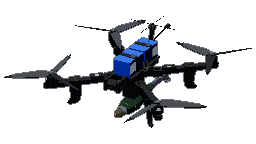
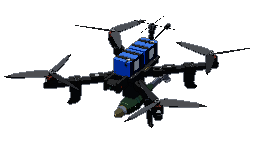
Queen Hornet: detalle del Strike en motores, baterías, cámara y tornillería
Claude-Session: https://claude.ai/code/session_01QxVwzftchd8Mx2CWkj2qo5

diff --git a/src/data/uas/queen-hornet.ts b/src/data/uas/queen-hornet.ts
@@ -58,30 +58,47 @@ const zt = (t: number) => Z_NARIZ - t / 10;
 const perfilT = (q: [number, number][]): [number, number][] => q.map(([t, r]) => [zt(t), r / 10]);
 const OJIVA_Y = Y_SUELTA_ABAJO - 0.25 - OJIVA_R;
 
-// Motor 4320: base, el bobinado naranja asomando bajo la campana negra, la
-// tapa con su eje, cubo de la hélice y tuerca.
+// Motor 4320, como los del Strike pero negro (foto de lado): asiento sobre
+// el brazo con sus cuatro tornillos por debajo, campana negra lisa abajo
+// (donde va el rótulo) y con seis ventanas grandes arriba del costado y ocho
+// radios en la tapa, las dos dejando ver el bobinado naranja; eje largo,
+// cubo de la hélice, arandela y tuerca autoblocante.
 const Y_MOTOR = BRAZO_ALTO / 2;
 const motor = (b: [number, number]): Pieza[] => {
   const id = `motor-${nombreBrazo(b)}`;
   const c = (y: number): P3 => enBrazo(b, 1, Y_MOTOR + y);
+  const radial = (r: number, f: number, y: number): P3 => { const p = c(y), a = (f * Math.PI) / 180; return [p[0] + r * Math.sin(a), p[1], p[2] + r * Math.cos(a)]; };
   return [
-    { tipo: "disco", id: `${id}-base`, acabado: "anodizado-qh", en: c(0.3), normal: [0, 1, 0], radio: 2.6, grosor: 0.6 },
-    { tipo: "varilla", id: `${id}-cobre`, acabado: "cobre-wh", desde: c(0.6), hasta: c(1.5), radio: 2.35, lados: 32 },
-    // Seis pilares de la campana entre las ventanas del bobinado.
-    ...Array.from({ length: 6 }, (_, k): Pieza => {
-      const f = k * 60, r = (f * Math.PI) / 180, p = c(1.05);
-      const centro: P3 = [p[0] + 2.4 * Math.sin(r), p[1], p[2] + 2.4 * Math.cos(r)];
-      return { tipo: "caja", id: `${id}-pilar-${k}`, acabado: "anodizado-qh", centro, tam: [0.7, 0.9, 0.3], girar: { centro, eje: "y", grados: f } };
+    { tipo: "disco", id: `${id}-asiento`, acabado: "anodizado-qh", en: c(0.25), normal: [0, 1, 0], radio: 2.7, grosor: 0.5 },
+    ...[45, 135, 225, 315].map((f, k): Pieza => {
+      const p = radial(1.6, f, 0);
+      return { tipo: "disco", id: `${id}-tornillo-${k}`, acabado: "aluminio", en: [p[0], -BRAZO_ALTO / 2 - 0.03, p[2]], normal: [0, -1, 0], radio: 0.22, grosor: 0.06 };
     }),
-    { tipo: "varilla", id: `${id}-campana`, acabado: "anodizado-qh", desde: c(1.5), hasta: c(3.9), radio: 2.55, lados: 40 },
-    { tipo: "disco", id: `${id}-tapa`, acabado: "anodizado-qh", en: c(4.0), normal: [0, 1, 0], radio: 2.2, grosor: 0.2 },
-    { tipo: "varilla", id: `${id}-eje`, acabado: "aluminio", desde: c(4.0), hasta: c(6.0), radio: 0.4, lados: 16 },
-    { tipo: "varilla", id: `${id}-cubo`, acabado: "helice-wh", desde: c(4.15), hasta: c(5.1), radio: 1.25, lados: 28 },
-    { tipo: "disco", id: `${id}-arandela`, acabado: "aluminio", en: c(5.15), normal: [0, 1, 0], radio: 0.8, grosor: 0.1 },
-    { tipo: "varilla", id: `${id}-tuerca`, acabado: "aluminio", desde: c(5.2), hasta: c(5.8), radio: 0.62, lados: 6 },
+    { tipo: "varilla", id: `${id}-base`, acabado: "anodizado-qh", desde: c(0.5), hasta: c(0.9), radio: 2.45, lados: 40 },
+    { tipo: "varilla", id: `${id}-cobre`, acabado: "cobre-wh", desde: c(0.9), hasta: c(3.85), radio: 2.38, lados: 32 },
+    { tipo: "varilla", id: `${id}-campana`, acabado: "anodizado-qh", desde: c(0.9), hasta: c(2.55), radio: 2.58, lados: 40 },
+    // Pilares de la campana entre las seis ventanas.
+    ...Array.from({ length: 6 }, (_, k): Pieza => {
+      const f = k * 60 + 30, centro = radial(2.47, f, 3.05);
+      return { tipo: "caja", id: `${id}-pilar-${k}`, acabado: "anodizado-qh", centro, tam: [0.85, 1.05, 0.24], girar: { centro, eje: "y", grados: f } };
+    }),
+    { tipo: "varilla", id: `${id}-campana-aro`, acabado: "anodizado-qh", desde: c(3.55), hasta: c(3.8), radio: 2.58, lados: 40 },
+    // La tapa: el bobinado asoma entre ocho radios.
+    { tipo: "disco", id: `${id}-tapa-cobre`, acabado: "cobre-wh", en: c(3.82), normal: [0, 1, 0], radio: 2.2, grosor: 0.04 },
+    ...Array.from({ length: 8 }, (_, k): Pieza => {
+      const f = k * 45, centro = radial(1.45, f, 3.86);
+      return { tipo: "caja", id: `${id}-radio-${k}`, acabado: "anodizado-qh", centro, tam: [0.4, 0.12, 2.2], girar: { centro, eje: "y", grados: f } };
+    }),
+    { tipo: "disco", id: `${id}-buje`, acabado: "anodizado-qh", en: c(3.9), normal: [0, 1, 0], radio: 0.95, grosor: 0.14 },
+    { tipo: "varilla", id: `${id}-eje`, acabado: "aluminio", desde: c(3.8), hasta: c(6.3), radio: 0.4, lados: 16 },
+    // Cubo de la hélice, arandela y tuerca de seis lados con su nailon arriba.
+    { tipo: "varilla", id: `${id}-cubo`, acabado: "helice-wh", desde: c(4.4), hasta: c(5.3), radio: 1.3, lados: 28 },
+    { tipo: "disco", id: `${id}-arandela`, acabado: "aluminio", en: c(5.36), normal: [0, 1, 0], radio: 0.85, grosor: 0.1 },
+    { tipo: "varilla", id: `${id}-tuerca`, acabado: "aluminio", desde: c(5.4), hasta: c(6.0), radio: 0.66, lados: 6 },
+    { tipo: "varilla", id: `${id}-nailon`, acabado: "negro-ua", desde: c(6.0), hasta: c(6.25), radio: 0.52, lados: 16 },
   ];
 };
-const Y_HELICE = Y_MOTOR + 4.65;
+const Y_HELICE = Y_MOTOR + 4.85;
 
 // Planta de las palas de 17 pulgadas (foto del soldado): raíz estrecha, lo
 // más ancho a un cuarto y una punta larga y afilada.
@@ -110,6 +127,11 @@ const brazo = (b: [number, number]): Pieza[] => {
     // Abrazadera de la pata y su brida.
     caja(`pata-${n}-abrazadera`, enBrazo(b, PATA_T, 0), [4.4, 3.2, 5.0], "negro-ua", 0.35),
     caja(`pata-${n}-brida`, enBrazo(b, PATA_T, 0), [4.55, 3.35, 0.5], "negro", 0.1),
+    // Dos tornillos encima de la abrazadera y de la bisagra, a lo largo del brazo.
+    ...([[PATA_T, 1.6, "pata"], [0.3, 1.5, "bisagra"]] as const).flatMap(([t, y, q]) => [-1.6, 1.6].map((e, j): Pieza => {
+      const p = enBrazo(b, t + e / L, y + 0.03);
+      return { tipo: "disco", id: `${q}-${n}-tornillo-${j}`, acabado: "aluminio", en: p, normal: [0, 1, 0], radio: 0.22, grosor: 0.06 };
+    })),
     { tipo: "placa", id: `pata-${n}`, acabado: "negro-ua", plano: "vertical", x: pata[0], grosor: 1.1, bisel: 0.25, planta: PATA.map(([s, y]): [number, number] => [pata[2] + s, y]), girar: { centro: pata, eje: "y", grados: ang } },
     // Los tres cables del motor, pegados bajo el brazo.
     { tipo: "codo", id: `brazo-${n}-cables`, acabado: "negro", puntos: [[...enBrazo(b, 0.2, -1.1), 0.5, 0.1], [...enBrazo(b, 0.66, -1.1), 0.5, 0.1], [...enBrazo(b, 0.95, -1.1), 0.5, 0.1], [...enBrazo(b, 0.99, 0.2), 0.4, 0.15]] },
@@ -134,8 +156,8 @@ const PIEZAS: Pieza[] = [
   // Conectores de las baterías en los costados, a media placa, con sus pines.
   { tipo: "caja", id: "conector", acabado: "negro-ua", centro: [7.0, Y_PLACA - 0.3, -0.4], tam: [2.8, 2.2, 7.0], redondeo: 0.4, espejo: true },
   ...[-1.6, -0.4, 0.8].map((z, k): Pieza => ({ tipo: "disco", id: `conector-pin-${k}`, acabado: "laton", en: [7.0, Y_PLACA + 0.82, z], normal: [0, 1, 0], radio: 0.3, grosor: 0.06, espejo: true })),
-  // Cuatro tornillos en las esquinas de la placa.
-  ...([[4.8, 9.8], [4.8, -14.9]] as const).map(([x, z], k): Pieza => ({ tipo: "disco", id: `tornillo-${k}`, acabado: "aluminio", en: [x, Y_TECHO + 0.03, z], normal: [0, 1, 0], radio: 0.3, grosor: 0.06, espejo: true })),
+  // Tornillos por el borde de la placa (foto de tres cuartos).
+  ...([[4.9, 10.2], [5.2, 6.6], [5.2, 2.6], [5.2, -3.6], [5.2, -7.6], [5.2, -11.6], [4.9, -15.3], [1.6, 10.6], [1.6, -15.7]] as const).map(([x, z], k): Pieza => ({ tipo: "disco", id: `tornillo-${k}`, acabado: "aluminio", en: [x, Y_TECHO + 0.03, z], normal: [0, 1, 0], radio: 0.24, grosor: 0.06, espejo: true })),
 
   // --- Brazos plegables con sus variadores, patas y motores.
   ...BRAZOS.flatMap(brazo),
@@ -148,19 +170,35 @@ const PIEZAS: Pieza[] = [
   { tipo: "caja", id: "camara-base", acabado: "negro-ua", centro: [0, 0.9, 15.0], tam: [7.8, 1.2, 7.4], redondeo: 0.4 },
   { tipo: "varilla", id: "camara-barril", acabado: "negro-ua", desde: [-2.7, 2.6, 17.6], hasta: [2.7, 2.6, 17.6], radio: 2.3, lados: 32 },
   { tipo: "caja", id: "camara", acabado: "negro", centro: [0, 2.6, 19.2], tam: [2.0, 2.0, 1.6], redondeo: 0.15 },
-  { tipo: "varilla", id: "camara-objetivo", acabado: "negro", desde: [0, 2.6, 19.9], hasta: [0, 2.6, 20.7], radio: 0.75, lados: 24 },
-  { tipo: "disco", id: "camara-cristal", acabado: "lente", en: [0, 2.6, 20.72], normal: [0, 0, 1], radio: 0.55, grosor: 0.04 },
+  // El frontal de aluminio oscuro, el objetivo con su rosca, el aro y el cristal.
+  { tipo: "caja", id: "camara-frente", acabado: "campana-wh", centro: [0, 2.6, 20.02], tam: [1.95, 1.95, 0.12], redondeo: 0.12 },
+  { tipo: "varilla", id: "camara-objetivo", acabado: "negro-ua", desde: [0, 2.6, 20.0], hasta: [0, 2.6, 20.9], radio: 0.72, lados: 24 },
+  { tipo: "varilla", id: "camara-objetivo-rosca", acabado: "negro", desde: [0, 2.6, 20.25], hasta: [0, 2.6, 20.5], radio: 0.78, lados: 24 },
+  { tipo: "disco", id: "camara-aro", acabado: "metal", en: [0, 2.6, 20.91], normal: [0, 0, 1], radio: 0.62, grosor: 0.05 },
+  { tipo: "disco", id: "camara-cristal", acabado: "lente", en: [0, 2.6, 20.94], normal: [0, 0, 1], radio: 0.48, grosor: 0.04 },
+  { tipo: "codo", id: "camara-cable", acabado: "negro-ua", puntos: [[0.5, 2.9, 18.4, 0.12], [0.7, 3.4, 17.0, 0.12], [0.6, 3.6, 14.0, 0.12], [0.4, 3.4, 11.6, 0.12]] },
   { tipo: "disco", id: "camara-tornillo", acabado: "naranja", en: [3.92, 2.6, 17.6], normal: [1, 0, 0], radio: 0.32, grosor: 0.05, espejo: true },
 
-  // --- Baterías 6s4p, encima y en fila, enchufadas en medio.
-  ...([[4.6, "delante"], [-9.6, "detras"]] as const).flatMap(([z, n]): Pieza[] => [
-    { tipo: "caja", id: `bateria-${n}`, acabado: "azul", centro: [0, Y_TECHO + 3.75, z], tam: [8.8, 7.5, 13.0], redondeo: 0.8 },
-    { tipo: "caja", id: `bateria-${n}-correa`, acabado: "negro-ua", centro: [0, Y_TECHO + 3.75, z], tam: [8.95, 7.65, 2.4], redondeo: 0.85 },
-    { tipo: "caja", id: `bateria-${n}-hebilla`, acabado: "negro", centro: [2.4, Y_TECHO + 7.62, z], tam: [2.4, 0.2, 2.6], redondeo: 0.2 },
-  ]),
-  // Cables de potencia de cada batería a su conector del costado.
-  ...([[-1.7, 1], [-3.3, -1]] as const).flatMap(([z, s], k): Pieza[] => [
-    { tipo: "codo", id: `bateria-cable-${k}`, acabado: "negro", puntos: [[3.4, Y_TECHO + 2.2, z, 0.45], [5.0, Y_TECHO + 2.4, z + s * 0.6, 0.45], [6.6, Y_TECHO + 1.4, -0.4 + s * 1.6, 0.45], [7.0, Y_PLACA + 0.9, -0.4 + s * 1.2, 0.45]] },
+  // --- Baterías 6s4p, encima y en fila, como la del Strike: alfombrilla de
+  // goma, dos correas con hebilla de escalera y el rabo doblado encima, cable
+  // de balanceo con su conector blanco y cables de potencia rojo y negro al
+  // conector del costado.
+  ...([[4.6, "delante", 1], [-9.6, "detras", -1]] as const).flatMap(([z, n, s]): Pieza[] => [
+    { tipo: "caja", id: `bateria-${n}-alfombrilla`, acabado: "negro-ua", centro: [0, Y_TECHO + 0.07, z], tam: [7.6, 0.14, 12.2], redondeo: 0.4 },
+    { tipo: "caja", id: `bateria-${n}`, acabado: "azul", centro: [0, Y_TECHO + 3.89, z], tam: [8.8, 7.5, 13.0], redondeo: 0.8 },
+    ...[-3.2, 3.2].flatMap((e, k): Pieza[] => [
+      { tipo: "caja", id: `bateria-${n}-correa-${k}`, acabado: "negro-ua", centro: [0, Y_TECHO + 3.89, z + e], tam: [8.95, 7.66, 2.0], redondeo: 0.85 },
+      ...[-1.05, 1.05].map((d, j): Pieza => ({ tipo: "caja", id: `bateria-${n}-hebilla-${k}-larguero-${j}`, acabado: "metal", centro: [1.5, Y_TECHO + 7.74, z + e + d], tam: [1.5, 0.16, 0.16], redondeo: 0.05 })),
+      ...[0.85, 1.5, 2.15].map((x, j): Pieza => ({ tipo: "caja", id: `bateria-${n}-hebilla-${k}-${j}`, acabado: "metal", centro: [x, Y_TECHO + 7.74, z + e], tam: [0.16, 0.16, 2.26], redondeo: 0.05 })),
+      { tipo: "caja", id: `bateria-${n}-correa-${k}-rabo`, acabado: "negro-ua", centro: [-0.9, Y_TECHO + 7.74, z + e], tam: [3.0, 0.14, 1.96], redondeo: 0.06 },
+    ]),
+    // Balanceo: siete hilos finos a un conector blanco, sobre la batería.
+    { tipo: "codo", id: `bateria-${n}-balanceo`, acabado: "negro-ua", puntos: [[2.6, Y_TECHO + 5.6, z + s * 6.55, 0.3, 0.12], [2.7, Y_TECHO + 7.0, z + s * 7.0, 0.3, 0.12], [2.6, Y_TECHO + 7.72, z + s * 5.8, 0.3, 0.12], [2.5, Y_TECHO + 7.72, z + s * 4.8, 0.3, 0.12]] },
+    { tipo: "caja", id: `bateria-${n}-balanceo-conector`, acabado: "hueso", centro: [2.5, Y_TECHO + 7.8, z + s * 4.2], tam: [1.9, 0.5, 0.6], redondeo: 0.05 },
+    { tipo: "caja", id: `bateria-${n}-salida`, acabado: "negro-ua", centro: [-3.2, Y_TECHO + 2.4, z - s * 6.6], tam: [1.6, 1.0, 0.35], redondeo: 0.15 },
+    ...([[-2.8, "rojo-vivo", "rojo"], [-3.6, "negro-ua", "negro"]] as const).map(([x, acabado, c]): Pieza => ({ tipo: "codo", id: `bateria-${n}-cable-${c}`, acabado, puntos: [
+      [x, Y_TECHO + 2.4, z - s * 6.75, 0.3], [x - 0.6, Y_TECHO + 2.5, z - s * 7.4, 0.3], [x - 2.6, Y_TECHO + 1.8, -0.4 + s * 1.4, 0.3], [x - 3.6, Y_PLACA + 0.9, -0.4 + s * (x < -3 ? 0.5 : 1.1), 0.3],
+    ] })),
   ]),
 
   // --- Mástil de antenas: barra negra plegable que sube hacia atrás, con el
@@ -174,6 +212,12 @@ const PIEZAS: Pieza[] = [
   { tipo: "varilla", id: "vtx-conector", acabado: "laton", desde: enMastil(4.5, 2.2, -1.2), hasta: enMastil(4.5, 3.2, -1.2), radio: 0.35, lados: 6 },
   { tipo: "codo", id: "antena-video", acabado: "negro-ua", puntos: [[...enMastil(4.5, 3.2, -1.2), 0.3], [...enMastil(5.2, 5.0, -1.1), 0.3], [...enMastil(8.0, 12.0, -1.0), 0.3], [...enMastil(10.0, 18.0, -1.0), 0.3]] },
   { tipo: "varilla", id: "antena-video-punta", acabado: "negro-ua", desde: enMastil(10.0, 18.0, -1.0), hasta: enMastil(10.6, 20.2, -1.0), radio: 0.9, lados: 20 },
+  // Bridas del mástil con su cierre, a uno y otro lado.
+  ...[1.6, 7.4, 10.4].flatMap((e, k): Pieza[] => [
+    { tipo: "viga", id: `mastil-brida-${k}`, acabado: "negro", arriba: 1, abajo: 1, ruta: [[...enMastil(e), 2.55, 1.3], [...enMastil(e + 0.4), 2.55, 1.3]] },
+    { tipo: "caja", id: `mastil-brida-${k}-cierre`, acabado: "negro", centro: enMastil(e + 0.2, 0, k % 2 ? 1.35 : -1.35), tam: [0.45, 0.42, 0.5], girar: { centro: enMastil(e + 0.2, 0, k % 2 ? 1.35 : -1.35), eje: "x", grados: -MASTIL_ANG } },
+  ]),
+  { tipo: "disco", id: "receptor-led", acabado: "azul", en: enMastil(MASTIL_LARGO + 1.0, 1.12, 0.6), normal: [0, -MN[1], -MN[2]], radio: 0.12, grosor: 0.03 },
   { tipo: "caja", id: "receptor", acabado: "negro", centro: enMastil(MASTIL_LARGO + 1.0), tam: [2.6, 2.0, 2.2], redondeo: 0.3, girar: { centro: enMastil(MASTIL_LARGO + 1.0), eje: "x", grados: -MASTIL_ANG } },
   { tipo: "varilla", id: "antenas-x", acabado: "negro-ua", desde: [-12, enMastil(MASTIL_LARGO + 2.2)[1], enMastil(MASTIL_LARGO + 2.2)[2]], hasta: [12, enMastil(MASTIL_LARGO + 2.2)[1], enMastil(MASTIL_LARGO + 2.2)[2]], radio: 0.12, lados: 8 },
   { tipo: "varilla", id: "antenas-z", acabado: "negro-ua", desde: [0, enMastil(MASTIL_LARGO + 2.4)[1], enMastil(MASTIL_LARGO + 2.4)[2] + 12], hasta: [0, enMastil(MASTIL_LARGO + 2.4)[1], enMastil(MASTIL_LARGO + 2.4)[2] - 12], radio: 0.12, lados: 8 },
@@ -216,7 +260,7 @@ const CALCAS: Calca[] = [
   // «4320 / 350KV» en blanco en la campana de cada motor, mirando afuera.
   ...BRAZOS.map((b): Calca => {
     const L = Math.hypot(MX, MZ), d: P3 = [(b[0] * MX) / L, 0, (b[1] * MZ) / L];
-    const p = enBrazo(b, 1, Y_MOTOR + 2.7);
+    const p = enBrazo(b, 1, Y_MOTOR + 1.75);
     return { sobre: [`motor-${nombreBrazo(b)}-campana`], en: [p[0] + d[0] * 2.55, p[1], p[2] + d[2] * 2.55], desde: d, tam: [3.0, 1.5], dibujo: { tipo: "texto", texto: "4320\n350KV", color: "#d8d8d2" } };
   }),
   // El número del ejemplar en el costado del brazo de delante izquierdo, junto
@@ -228,7 +272,9 @@ const CALCAS: Calca[] = [
     return { sobre: ["brazo-di"], en: [p[0] + fuera[0] * BRAZO_ANCHO / 2, 0, p[2] + fuera[2] * BRAZO_ANCHO / 2], desde: fuera, tam: [6.4, 1.1], dibujo: { tipo: "texto", texto: "Q0002226", color: "#d8d8d2", fino: true } };
   })(),
   // Etiqueta de cada batería en el costado.
-  ...([4.6, -9.6] as const).map((z): Calca => ({ sobre: [`bateria-${z > 0 ? "delante" : "detras"}`], en: [4.4, Y_TECHO + 3.75, z + (z > 0 ? 3.4 : -3.4)], desde: [1, 0, 0], tam: [5.0, 4.6], espejo: true, dibujo: { tipo: "etiqueta", titulo: "6S4P" } })),
+  ...([4.6, -9.6] as const).map((z): Calca => ({ sobre: [`bateria-${z > 0 ? "delante" : "detras"}`], en: [4.4, Y_TECHO + 3.89, z], desde: [1, 0, 0], tam: [4.0, 4.6], espejo: true, dibujo: { tipo: "etiqueta", titulo: "6S4P" } })),
+  // Etiqueta blanca del transmisor de vídeo, en su costado.
+  { sobre: ["vtx"], en: enMastil(4.5, 1.6, 1.6), desde: [1, 0, 0], tam: [1.2, 1.6], dibujo: { tipo: "rect", color: "#e8e8e2" } },
   // Agujeros del tubo de cola de la granada, en dos filas a cada lado.
   ...[360, 380, 400, 420, 440].flatMap((t): Calca[] => [0.55, -0.55].map((dy): Calca => ({ sobre: ["ojiva-cola"], en: [1.3, OJIVA_Y + dy, zt(t)], desde: [1, 0, 0], tam: [0.4, 0.4], espejo: true, dibujo: { tipo: "disco", color: HUECO } }))),
   // Rótulos de la granada en un costado: en amarillo, el calibre, el

diff --git a/docs/drones/queen-hornet.md b/docs/drones/queen-hornet.md
@@ -3,10 +3,11 @@
 ## Dónde estamos: fases 2, 3 y 4 hechas (25-10-2026), sin nota
 
 - Fase 2: fotos y `FUENTES.md` en `arte/uas-fuentes/queen-hornet/` (fuera de Git; tabla abajo). Ajustes de cámara encajados en `hd/arriba.json` y `hd/lado.json`.
-- Fase 3: maqueta en `src/data/uas/queen-hornet.ts`, encajada con la foto de arriba y la de lado. Dos acabados nuevos (`anodizado-qh`, `gris-cola`) y `solo` en el dibujo `sting` (el avispón sin rótulo).
+- Fase 3: maqueta en `src/data/uas/queen-hornet.ts`, con el detalle del Strike, encajada con la foto de arriba y la de lado. Dos acabados nuevos (`anodizado-qh`, `gris-cola`) y `solo` en el dibujo `sting` (el avispón sin rótulo).
 - Fase 4: `desfaseLuz` 0,35; tarjeta, tarjeta de noche y planta (`plantaDoble`) en `public/uas/queen-hornet/`; miniaturas de las fuentes en `fuentes/`.
 - **Falta la fase 1, la nota en la bóveda**: sin ella no hay ficha. Para probar se usó un borrador temporal en `src/content/uas/queen-hornet/index.md`, ya borrado.
 - El logo amarillo de la placa queda bajo la batería de delante (va pintado, pero no se ve).
+- **Duda abierta**: en la foto de tres cuartos, la caja de debajo del cubo lleva letra amarilla («…4P…») y un conector blanco arriba, como una batería. Puede que una batería vaya ahí colgada y no encima. Preguntado al usuario.
 - Siguiente: `/nuevodron Queen Hornet. Fase 1` (la nota) y luego la 5.
 
 ## Decisiones del usuario
@@ -15,6 +16,7 @@
 - 25-10-2026: versión **17" de marco de aluminio** (la actual, la de la ficha), no la de 2024 de carbono de 15".
 - 25-10-2026: ejemplar **negro, el de la web** (logo amarillo, «Q0002226» en un brazo).
 - 25-10-2026: carga **una granada de mortero de 81 mm**, **tumbada bajo la panza**, morro adelante, colgada del soltador. Se usa la M821 americana (plano oficial y espoleta M734A1).
+- 25-10-2026: **basarse en el Strike** (misma casa): del Strike se toman las piezas y el detalle (motores, baterías con correas y hebillas, cables, cámara, tornillería); el marco, que es otro (aluminio plegable con patas), sigue medido de sus fotos.
 - Slug: `queen-hornet` → `/uas/queen-hornet` (la maqueta, `src/data/uas/queen-hornet.ts`).
 
 ## Medidas clave
@@ -61,5 +63,6 @@ Fotos en `arte/uas-fuentes/queen-hornet/full/` (fuera de Git, bajadas el 25-10-2
 
 - 25-10-2026, fase 2: fotos oficiales, de prensa y de la M821; forma leída.
 - 25-10-2026, fase 3: maqueta; planta y lado encajados; mástil más corto y derecho, caja de suelta más alta, patas más cortas y cámara más baja tras encajar. Perfil de la M821 medido de nuevo en la foto de CAT-UXO (cuerpo más corto que el del Strike: la cola empieza a 343 mm de la punta).
+- 25-10-2026, fase 3 (2.ª vuelta): detalle del Strike: motores con seis ventanas y ocho radios sobre el bobinado, tuerca con nailon y tornillos bajo el brazo; baterías con alfombrilla, dos correas con hebilla de escalera, balanceo y cables rojo y negro; cámara con frontal, rosca y aro; tornillos de placa, bisagras y abrazaderas; bridas del mástil, LED del receptor y etiqueta del transmisor.
 - 25-10-2026, fase 4: desfase de luz medido, anodizado pasado a mate, miniaturas.
 - En la nube hizo falta Node 24 (las expresiones `(?i:…)` del glosario no van en Node 22) y Chrome con `--no-sandbox`.
